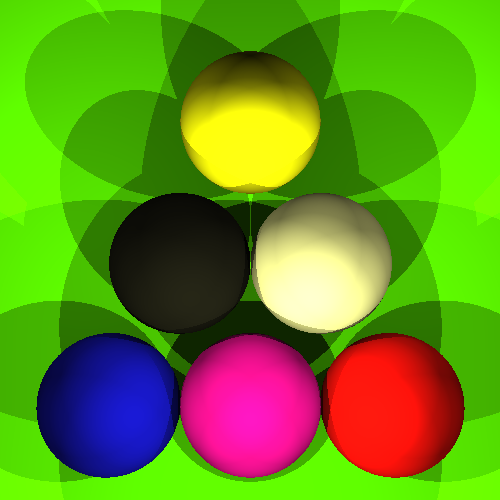
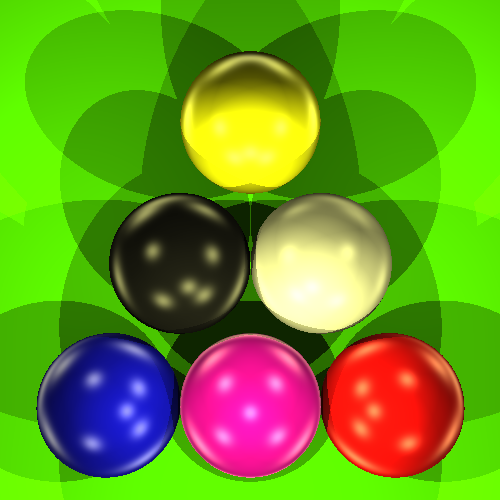
Added specular to sphere

diff --git a/modules/sphere.py b/modules/sphere.py
@@ -21,20 +21,30 @@ class Sphere(Entity):
                 return min(t1, t2)
         return None
 
-    def get_diffuse_color(self, scene, inter_point):
+    def get_diffuse_specular_color(self, scene, inter_point, camera_ray):
         normal = normalize(inter_point - self.center)
         diff_color = np.zeros(3, dtype=float)
+        specular_color = np.zeros(3, dtype=float)
 
         for light in scene.lights[:]:
             ray = Ray(light.position, inter_point)
             t, near_object = find_intersection(scene, ray)
 
-            curr_color = abs(normal @ ray.direction) * self.material.diffuse_color * light.light_color
+            # Diffuse color
+            curr_diff_color = abs(normal @ ray.direction) * self.material.diffuse_color * light.light_color
 
             # If this is not the first object we meet
             if abs(t - np.linalg.norm(inter_point - light.position)) > 1e-6:
-                curr_color *= (1 - light.shadow_intensity)
+                curr_diff_color *= (1 - light.shadow_intensity)
 
-            diff_color += curr_color
+            diff_color += curr_diff_color
 
-        return diff_color
+            # Specular color
+            R = 2 * (ray.direction @ normal) * normal - ray.direction
+            curr_specular_color = self.material.specular_color * \
+                                  ((R @ -camera_ray.direction) ** self.material.phong_specularity_coefficient) * \
+                                  light.light_color * light.specular_intensity
+
+            specular_color += curr_specular_color
+
+        return diff_color + specular_color

diff --git a/RayTracer.py b/RayTracer.py
@@ -61,7 +61,7 @@ def calc_screen_vectors(scene):
 def find_color(scene, p_object, ray, t):
     inter_point = ray.get_point(t)
 
-    diffuse_color = p_object.get_diffuse_color(scene, inter_point)
+    diffuse_color = p_object.get_diffuse_specular_color(scene, inter_point, ray)
 
     color = diffuse_color
     color = np.clip(color, 0, 1) * 255

diff --git a/modules/entity.py b/modules/entity.py
@@ -8,5 +8,5 @@ class Entity:
     def intersection(self, ray):
         return None
 
-    def get_diffuse_color(self, scene, inter_point):
+    def get_diffuse_specular_color(self, scene, inter_point, camera_ray):
         return None
